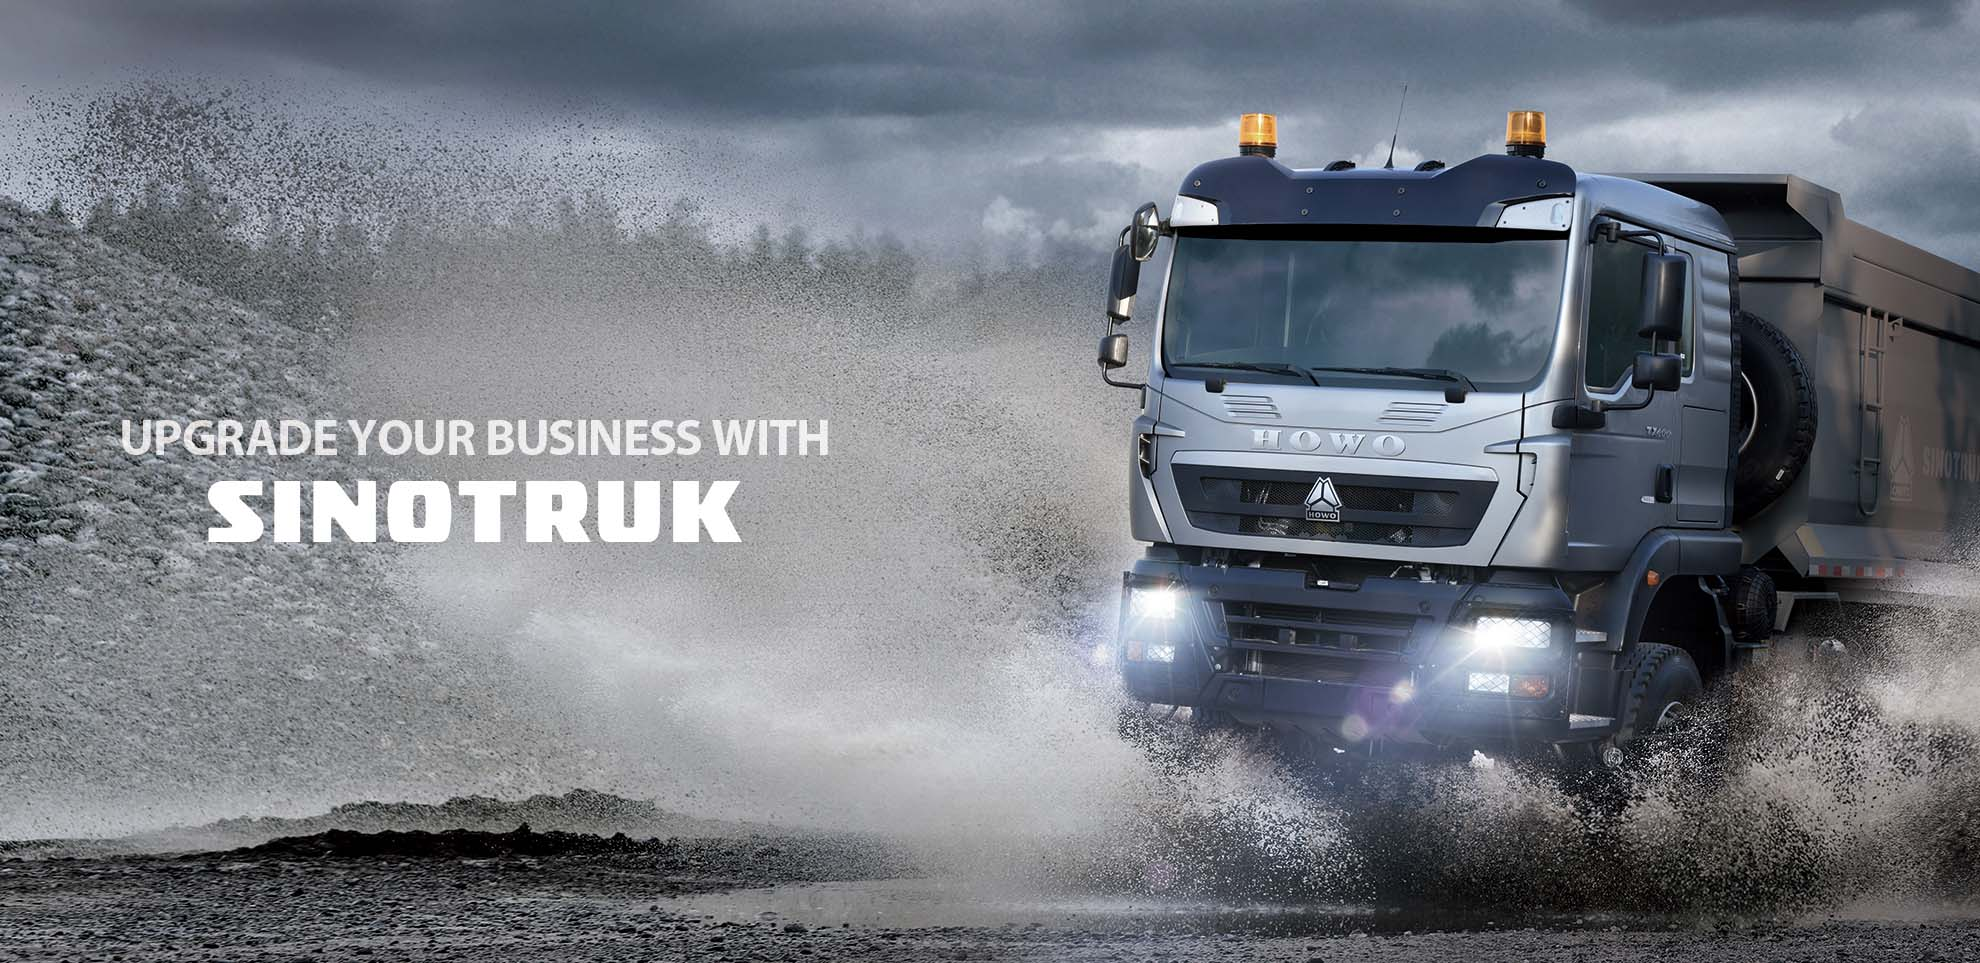
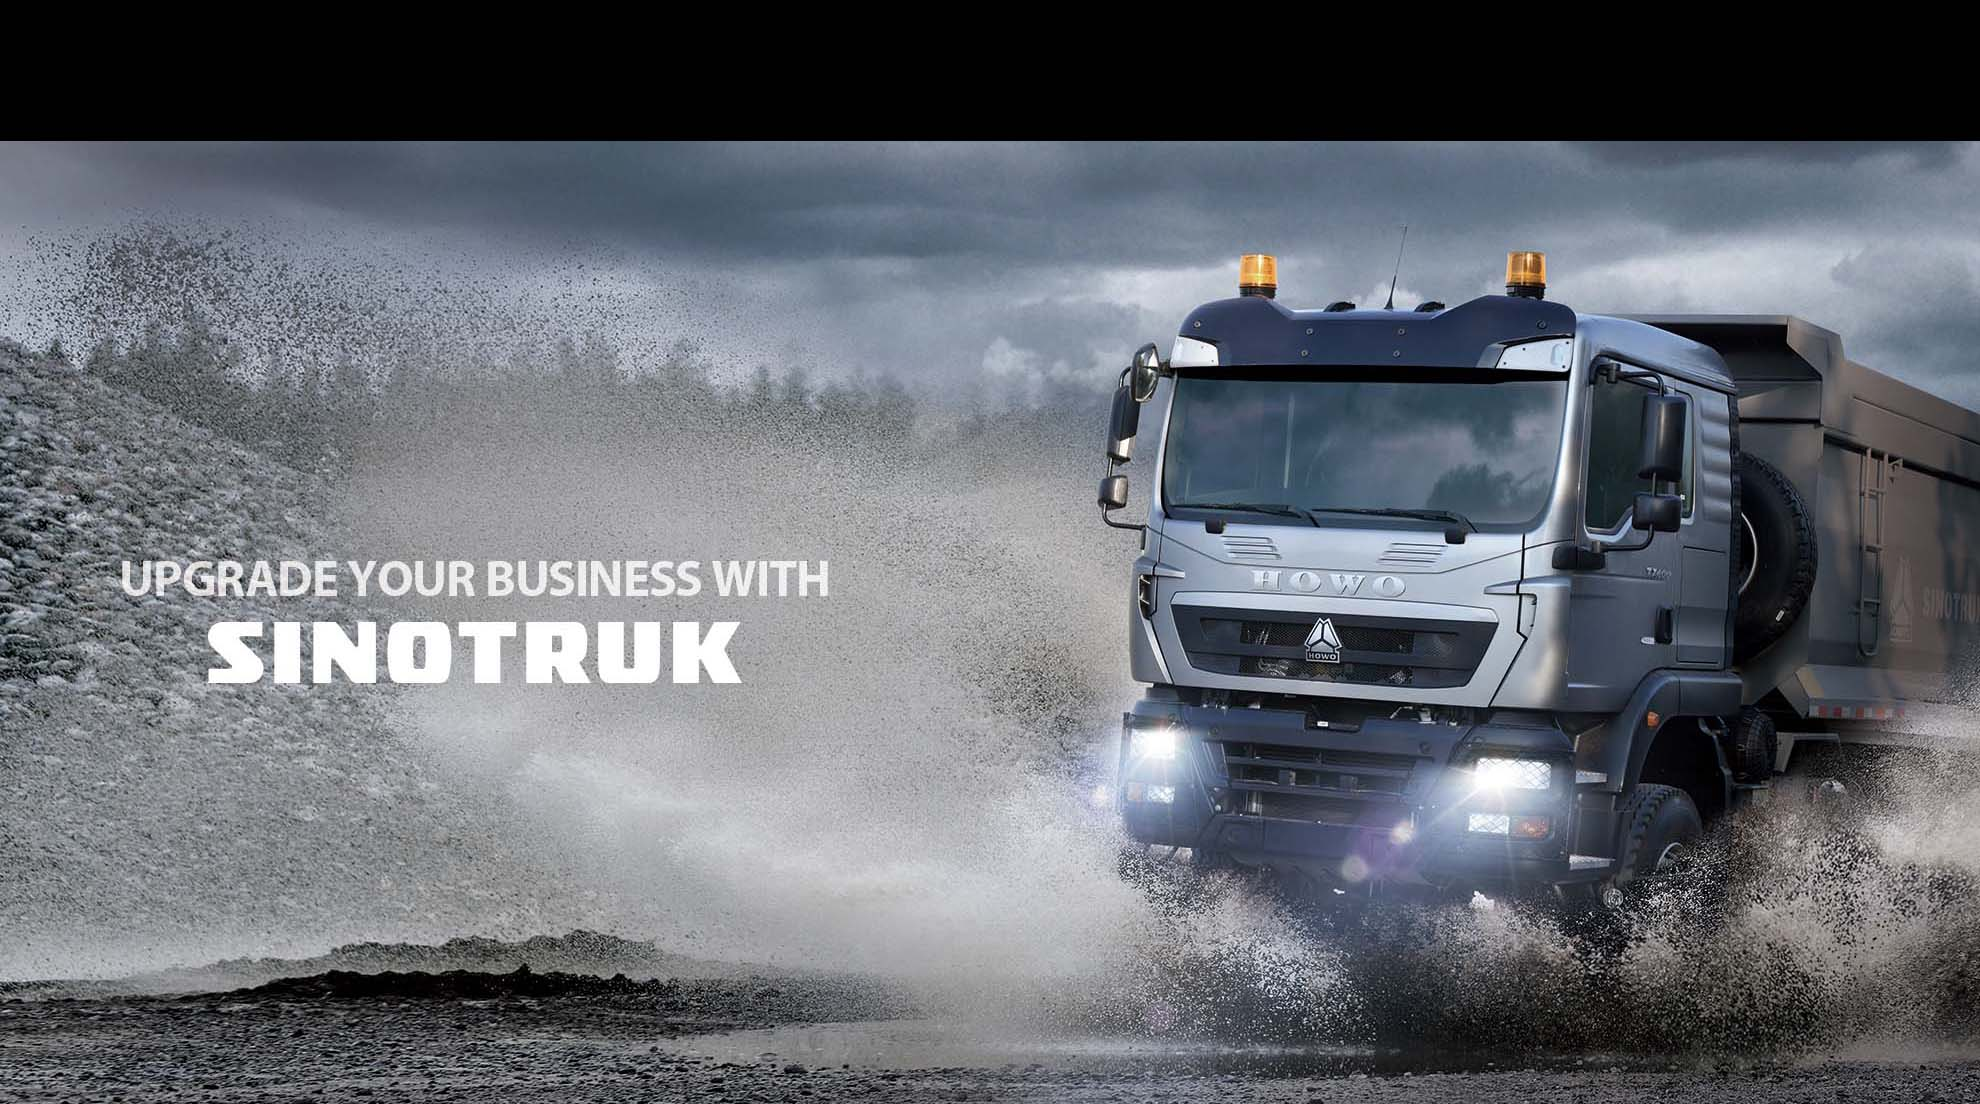
--image--fix

diff --git a/index.html b/index.html
@@ -135,7 +135,7 @@
     - #TOP BAR
   -->
 
-  <div class="topbar" top-header>
+  <div style="display: none;" class="topbar" top-header>
     <div class="container">
       <a href="tel:+11234567890" class="topbar-item link">
         <div class="icon">
@@ -261,6 +261,30 @@
               </a>
             </div> -->
           </li>
+         <li class="slider-item" data-hero-slider-item>
+
+            <div class="slider-bg">
+              <img src="./assets/images/slider2.jpg" width="1980" height="950" alt="" class="img-cover">
+            </div>
+            <!-- <div class="text-back">
+              <p class="label-2 section-subtitle slider-reveal">amazing & delicious</p>
+
+              <h1 class="display-1 hero-title slider-reveal">
+                Where every flavor <br>
+                tells a story
+              </h1>
+
+              <p class="body-2 hero-text slider-reveal">
+                Come with family & feel the joy of mouthwatering food
+              </p>
+
+              <a href="#" class="btn btn-primary slider-reveal">
+
+
+                <span class="text text-2" aria-hidden="true">View Our Menu</span>
+              </a>
+            </div> -->
+          </li> 
           <li class="slider-item" data-hero-slider-item>
 
             <div class="slider-bg">
@@ -284,7 +308,55 @@
                 <span class="text text-2" aria-hidden="true">View Our Menu</span>
               </a>
             </div> -->
-          </li>
+          </li> 
+          <li class="slider-item" data-hero-slider-item>
+
+            <div class="slider-bg">
+              <img src="./assets/images/slider1.jpg" width="1980" height="950" alt="" class="img-cover">
+            </div>
+            <!-- <div class="text-back">
+              <p class="label-2 section-subtitle slider-reveal">amazing & delicious</p>
+
+              <h1 class="display-1 hero-title slider-reveal">
+                Where every flavor <br>
+                tells a story
+              </h1>
+
+              <p class="body-2 hero-text slider-reveal">
+                Come with family & feel the joy of mouthwatering food
+              </p>
+
+              <a href="#" class="btn btn-primary slider-reveal">
+
+
+                <span class="text text-2" aria-hidden="true">View Our Menu</span>
+              </a>
+            </div> -->
+          </li> 
+          <li class="slider-item" data-hero-slider-item>
+
+            <div class="slider-bg">
+              <img src="./assets/images/slider5.jpg" width="1980" height="950" alt="" class="img-cover">
+            </div>
+            <!-- <div class="text-back">
+              <p class="label-2 section-subtitle slider-reveal">amazing & delicious</p>
+
+              <h1 class="display-1 hero-title slider-reveal">
+                Where every flavor <br>
+                tells a story
+              </h1>
+
+              <p class="body-2 hero-text slider-reveal">
+                Come with family & feel the joy of mouthwatering food
+              </p>
+
+              <a href="#" class="btn btn-primary slider-reveal">
+
+
+                <span class="text text-2" aria-hidden="true">View Our Menu</span>
+              </a>
+            </div> -->
+          </li> 
 
         </ul>
 

diff --git a/assets/css/slider.css b/assets/css/slider.css
@@ -61,7 +61,7 @@
 
   .topbar .link:is(:hover, :focus-visible) { color: var(--gold-crayola); }
 
-  .header { top: 51px; }
+  /* .header { top: 51px; } */
  }
 
 
